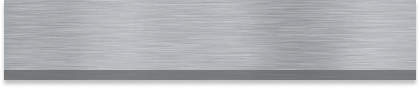
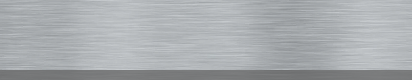
Added a CSV of crazy sandwiches, fixed an issue with PWA not clearing hosts, corrected styling on bottom bar and installed the Sandwichist AI button visual.

Changed region(s): [[0.0, 0.0, 1.0, 1.0]]

diff --git a/app/assets/stylesheets/pages/_bottom_footer.scss b/app/assets/stylesheets/pages/_bottom_footer.scss
@@ -46,12 +46,20 @@
       }
     }
 
-    .create-sandwich-btn {
-      background-color: rgb(255, 191, 0);
-      border: 2px solid black;
-      width: 70px;
-      height: 70px;
-      margin-top: -10px;
+    .ai-active-btn {
+      background: url('btn_sandwichist_open') no-repeat center center;
+      background-size: contain;
+      width: 100px;
+      height: 100px;
+      margin-top: -40px;
+    }
+
+    .ai-inactive-btn {
+      background: url('btn_sandwichist_closed') no-repeat center center;
+      background-size: contain;
+      width: 100px;
+      height: 100px;
+      margin-top: -40px;
     }
   }
 }

diff --git a/db/seeds.rb b/db/seeds.rb
@@ -13,20 +13,21 @@ def ingredients_from_csv(csv_text)
   csv.each do |row|
 
     ### Init Ingredient
-    ingredient = Ingredient.create!(name: row['name'], description: row['description'],
+    ingredient = Ingredient.create!(name: row['name'].downcase, description: row['description'],
                                     ingr_type: row['ingr_type'], unit_of_measure: row['unit_of_measure'],
                                     image_url: row['image_url'])
+    puts "Creating #{ingredient.name}"
 
     ### Parse Flavors
     flavor = row['flavor'].split('|')
     flavor.each do |f|
-      if Trait.find_by(name: f).nil?
+      if Trait.find_by(name: f.downcase).nil?
         # puts "Not found"
-        trait = Trait.create!(name: f, trait_type: "flavor")
-        puts "Created flavor: #{trait.name}"
+        trait = Trait.create!(name: f.downcase, trait_type: "flavor")
+        # puts "Created flavor: #{trait.name}"
       else
         # puts "Found"
-        trait = Trait.find_by(name: f)
+        trait = Trait.find_by(name: f.downcase)
       end
       IngredientTrait.create!(ingredient_id: ingredient.id, trait_id: trait.id)
     end
@@ -34,11 +35,11 @@ def ingredients_from_csv(csv_text)
     ### Parse Textures
     texture = row['texture'].split('|')
     texture.each do |f|
-      if Trait.find_by(name: f) == nil
-        trait = Trait.create!(name: f, trait_type: "texture")
-        puts "Created texture: #{trait.name}"
+      if Trait.find_by(name: f.downcase).nil?
+        trait = Trait.create!(name: f.downcase, trait_type: "texture")
+        # puts "Created texture: #{trait.name}"
       else
-        trait = Trait.find_by(name: f)
+        trait = Trait.find_by(name: f.downcase)
       end
       IngredientTrait.create!(ingredient_id: ingredient.id, trait_id: trait.id)
     end
@@ -46,11 +47,11 @@ def ingredients_from_csv(csv_text)
     ### Parse Origin
     country = row['origin'].split('|')
     country.each do |f|
-      if Trait.find_by(name: f) == nil
-        trait = Trait.create!(name: f, trait_type: "origin")
-        puts "Created origin: #{trait.name}"
+      if Trait.find_by(name: f.downcase).nil?
+        trait = Trait.create!(name: f.downcase, trait_type: "origin")
+        # puts "Created origin: #{trait.name}"
       else
-        trait = Trait.find_by(name: f)
+        trait = Trait.find_by(name: f.downcase)
       end
       IngredientTrait.create!(ingredient_id: ingredient.id, trait_id: trait.id)
     end
@@ -68,7 +69,8 @@ users = [
   { username: "SandwichKing", email: "sandwichking@example.com", password: "password123"},
   { username: "Ranald_McDougal", email: "ranaldmcdougal@example.com", password: "password123"},
   { username: "THICCWendy", email: "wendythicc@example.com", password: "password123"},
-  { username: "Carl_Senior", email: "carlsenior@example.com", password: "password123"}
+  { username: "Carl_Senior", email: "carlsenior@example.com", password: "password123"},
+  { username: "Ma Creedly", email:"creedly@example.com", password: "password123"}
 ]
 
 users.each do |user_data|
@@ -76,77 +78,22 @@ users.each do |user_data|
   puts "Created user: #{user.username}" # Confirm user creation
 end
 
-puts "Creating Sandwiches..."
-sandwiches = [
-  { user_id: User.first.id, name: "Cheese Burger", description: "placeholder..." },
-  { user_id: User.first.id, name: "Double Cheese Burger", description: "placeholder..." },
-  { user_id: User.first.id, name: "Bacon Crispy Chicken", description: "placeholder..." },
-]
+def sandwiches_from_csv(csv_text)
+  csv = CSV.parse(csv_text, headers: true, encoding: 'ISO-8859-1')
+  csv.each do |row|
+    ### Init Sandwiches ###
+    sandwich = Sandwich.create!(user_id: User.find_by(username: row['username']).id, name: row['name'], description: row['description'])
 
-sandwiches.each do |sandwich_data|
-  sandwich = Sandwich.create!(sandwich_data)
-  puts "Created sandwich: #{sandwich.name}" # Confirm user creation
+    ### Parse Ingredients ###
+    sandwich_ingredients = row['ingredients'].split('|')
+    sandwich_size = 1
+    sandwich_ingredients.each do |f|
+      SandwichIngredient.create!(sandwich_id: sandwich.id, ingredient_id: Ingredient.find_by(name: f.downcase).id,
+                                 ingredient_qty: 1, ingredient_position: sandwich_size)
+      sandwich_size += 1
+    end
+    puts "Created sandwich: #{sandwich.name}"
+  end
 end
 
-puts "Adding ingredients to sandwiches..."
-sandwich_ingr = [
-  { sandwich_id: Sandwich.find_by(name: "Cheese Burger").id,
-    ingredient_id: Ingredient.find_by(name: "Kaiser Roll").id,
-    ingredient_qty: 1, ingredient_position: 4 },
-  { sandwich_id: Sandwich.find_by(name: "Cheese Burger").id,
-    ingredient_id: Ingredient.find_by(name: "Cheddar").id,
-    ingredient_qty: 1, ingredient_position: 3 },
-  { sandwich_id: Sandwich.find_by(name: "Cheese Burger").id,
-    ingredient_id: Ingredient.find_by(name: "Ground Beef Patty").id,
-    ingredient_qty: 1, ingredient_position: 2 },
-  { sandwich_id: Sandwich.find_by(name: "Cheese Burger").id,
-    ingredient_id: Ingredient.find_by(name: "Kaiser Roll").id,
-    ingredient_qty: 1, ingredient_position: 1 },
-  ###
-  { sandwich_id: Sandwich.find_by(name: "Double Cheese Burger").id,
-    ingredient_id: Ingredient.find_by(name: "Kaiser Roll").id,
-    ingredient_qty: 1, ingredient_position: 6 },
-  { sandwich_id: Sandwich.find_by(name: "Double Cheese Burger").id,
-    ingredient_id: Ingredient.find_by(name: "Cheddar").id,
-    ingredient_qty: 1, ingredient_position: 5 },
-  { sandwich_id: Sandwich.find_by(name: "Double Cheese Burger").id,
-    ingredient_id: Ingredient.find_by(name: "Ground Beef Patty").id,
-    ingredient_qty: 1, ingredient_position: 4 },
-  { sandwich_id: Sandwich.find_by(name: "Double Cheese Burger").id,
-    ingredient_id: Ingredient.find_by(name: "Cheddar").id,
-    ingredient_qty: 1, ingredient_position: 3 },
-  { sandwich_id: Sandwich.find_by(name: "Double Cheese Burger").id,
-    ingredient_id: Ingredient.find_by(name: "Ground Beef Patty").id,
-    ingredient_qty: 1, ingredient_position: 2 },
-  { sandwich_id: Sandwich.find_by(name: "Double Cheese Burger").id,
-    ingredient_id: Ingredient.find_by(name: "Kaiser Roll").id,
-    ingredient_qty: 1, ingredient_position: 1 },
-  ###
-  { sandwich_id: Sandwich.find_by(name: "Bacon Crispy Chicken").id,
-    ingredient_id: Ingredient.find_by(name: "Pretzel Bun").id,
-    ingredient_qty: 1, ingredient_position: 7 },
-  { sandwich_id: Sandwich.find_by(name: "Bacon Crispy Chicken").id,
-    ingredient_id: Ingredient.find_by(name: "mustard").id,
-    ingredient_qty: 1, ingredient_position: 6 },
-  { sandwich_id: Sandwich.find_by(name: "Bacon Crispy Chicken").id,
-    ingredient_id: Ingredient.find_by(name: "Lettuce").id,
-    ingredient_qty: 1, ingredient_position: 5 },
-  { sandwich_id: Sandwich.find_by(name: "Bacon Crispy Chicken").id,
-    ingredient_id: Ingredient.find_by(name: "White onion").id,
-    ingredient_qty: 1, ingredient_position: 4 },
-  { sandwich_id: Sandwich.find_by(name: "Bacon Crispy Chicken").id,
-    ingredient_id: Ingredient.find_by(name: "Bacon").id,
-    ingredient_qty: 1, ingredient_position: 3 },
-  { sandwich_id: Sandwich.find_by(name: "Bacon Crispy Chicken").id,
-    ingredient_id: Ingredient.find_by(name: "Fried Chicken").id,
-    ingredient_qty: 1, ingredient_position: 2 },
-  { sandwich_id: Sandwich.find_by(name: "Bacon Crispy Chicken").id,
-    ingredient_id: Ingredient.find_by(name: "Pretzel Bun").id,
-    ingredient_qty: 1, ingredient_position: 1 }
-  ###
-]
-
-sandwich_ingr.each do |sandwich_ingr_data|
-  sandwich_ingr = SandwichIngredient.create!(sandwich_ingr_data)
-  puts "Applied ingredients to sandwich: #{sandwich_ingr.id}" # Confirm user creation
-end
+sandwiches_from_csv(File.read('db/Data/sandwiches.csv'))

diff --git a/config/environments/development.rb b/config/environments/development.rb
@@ -74,4 +74,6 @@ Rails.application.configure do
 
   # Raise error when a before_action's only/except options reference missing actions
   config.action_controller.raise_on_missing_callback_actions = true
+
+  config.hosts.clear
 end
